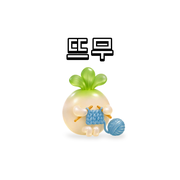
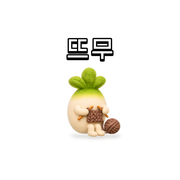
새 심볼(펠트 순무)로 교체, 로딩 화면 뜨무 블랙 22px

Changed region(s): [[0.3333, 0.1944, 0.6944, 0.7778], [0.5556, 0.3333, 0.5833, 0.3611]]

diff --git a/index.html b/index.html
@@ -88,8 +88,7 @@ main { padding-block: 40px 120px }
 /* launch screen: covers the app until the first data arrives, then fades out */
 #splash { position: fixed; inset: 0; z-index: 100; background: #FFFFFF; display: flex; flex-direction: column; align-items: center; justify-content: center; gap: 14px; transition: opacity .3s ease }
 #splash.out { opacity: 0; pointer-events: none }
-.splash-logo { width: 240px; height: 240px; display: block; margin-bottom: -14px }
-.splash-name { font-size: 15px; font-weight: 500; letter-spacing: -.02em; color: #141414 }
+.splash-logo { width: 111px; height: auto; display: block }   /* splash.png is 3x: symbol + '뜨무' */
 @media (prefers-reduced-motion: reduce) { #splash { transition: none } }
 .banner { background: var(--sunken); color: var(--muted); border-radius: 6px; padding: 8px 12px; font-size: 13px; margin-bottom: 24px }
 
@@ -353,9 +352,7 @@ button.chip:hover { color: var(--ink) }
 </style>
 
 <div id="splash" aria-hidden="true">
[1 lines of base64/hex data omitted]
-  <div class="splash-name">뜨무로그</div>
-</div>
[1 lines of base64/hex data omitted]
 <header class="top">
   <div class="wrap">
     <a class="brand" href="#feed">뜨무로그</a>

diff --git a/sw.js b/sw.js
@@ -1,4 +1,4 @@
-const CACHE = 'hankoh-531019544e';
+const CACHE = 'hankoh-e4904057cf';
 const SHELL = ['./', './index.html', './manifest.webmanifest', './icon-180.png', './icon-192.png', './icon-512.png'];
 self.addEventListener('install', e => {
   e.waitUntil(caches.open(CACHE).then(c => c.addAll(SHELL)).then(() => self.skipWaiting()));
